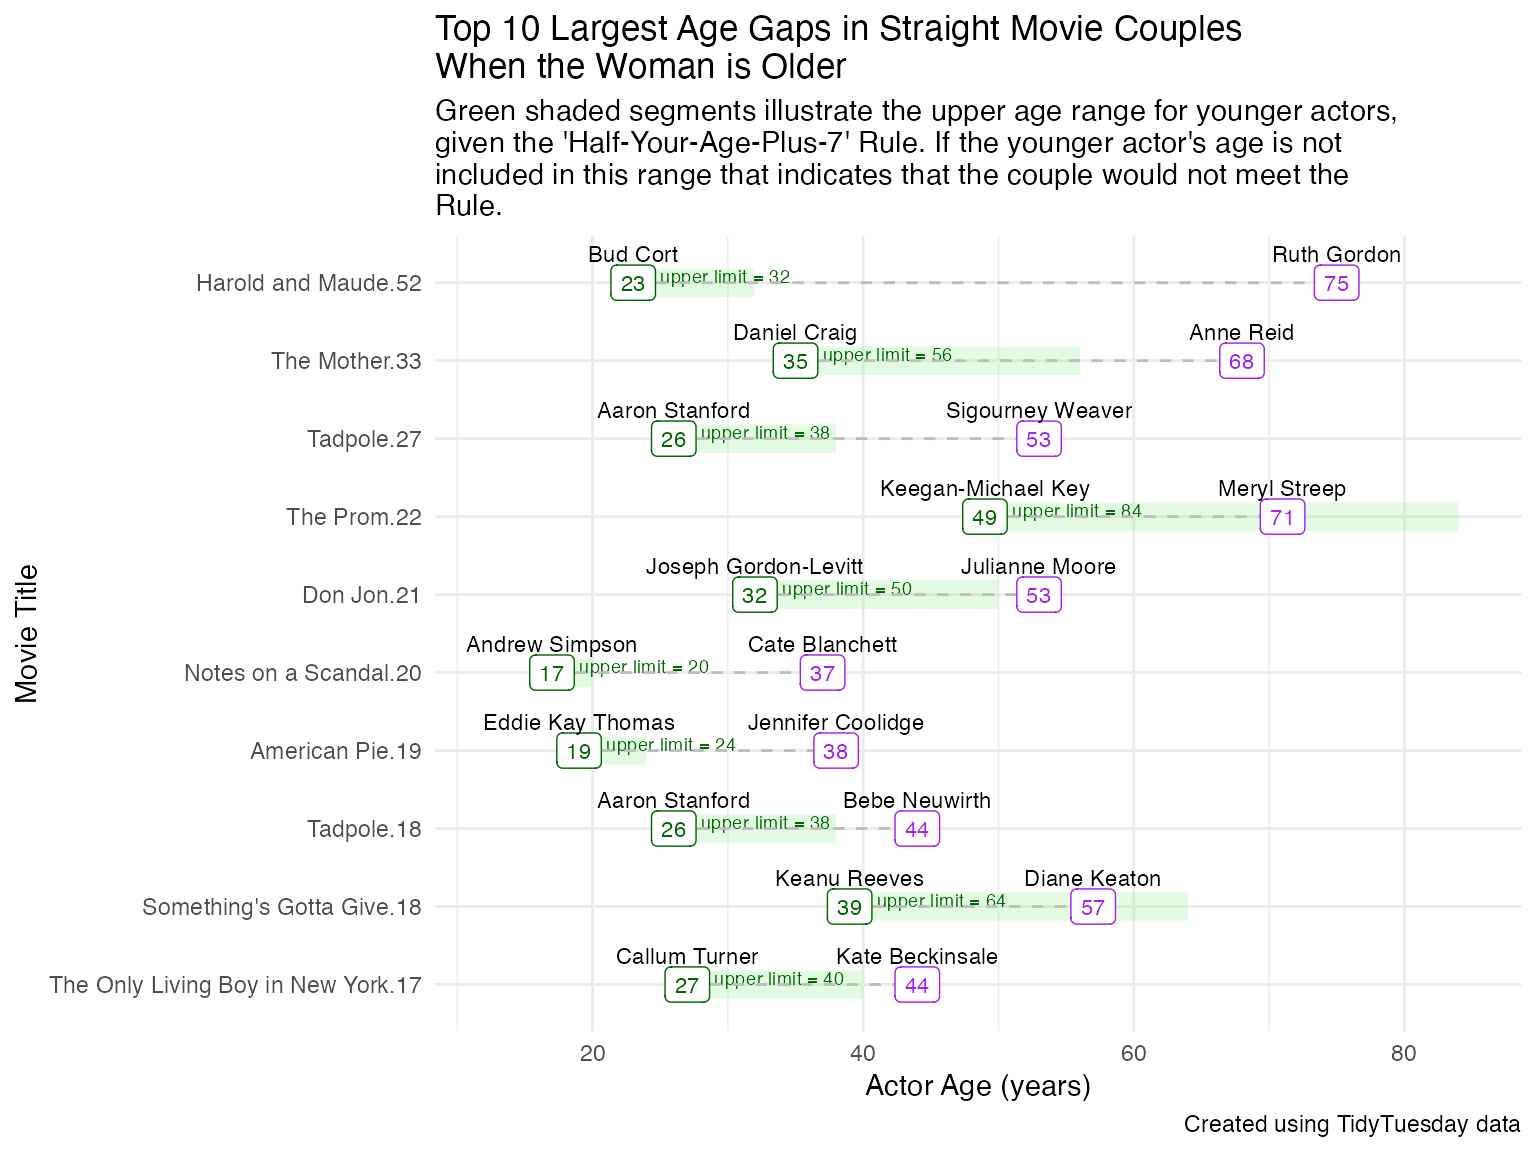
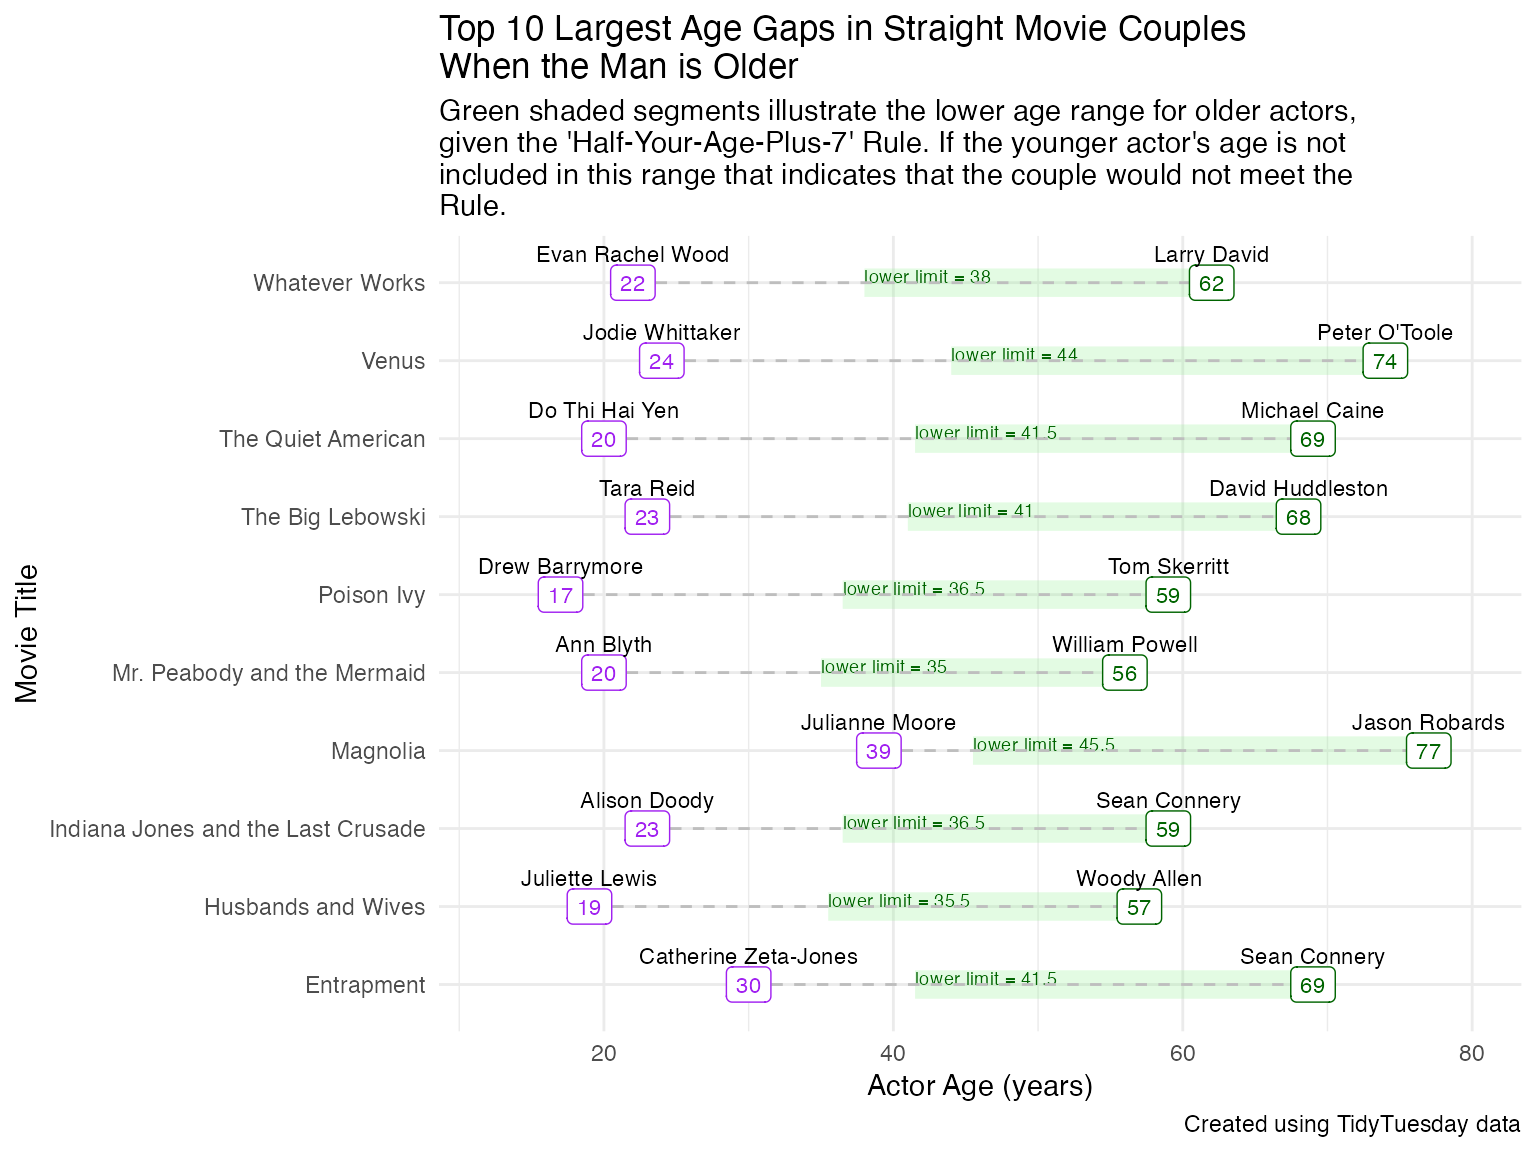
Improves example analysis

diff --git a/docs/articles/Example_Analysis.html b/docs/articles/Example_Analysis.html
@@ -143,6 +143,7 @@
 <span>         actor_1_birthdate <span class="op">=</span> <span class="fu"><a href="https://lubridate.tidyverse.org/reference/ymd.html" class="external-link">ymd</a></span><span class="op">(</span><span class="va">actor_1_birthdate</span><span class="op">)</span>,</span>
 <span>         actor_2_birthdate <span class="op">=</span> <span class="fu"><a href="https://lubridate.tidyverse.org/reference/ymd.html" class="external-link">ymd</a></span><span class="op">(</span><span class="va">actor_2_birthdate</span><span class="op">)</span><span class="op">)</span></span>
 <span></span>
+<span><span class="co">#calculates the older actor in the couple</span></span>
 <span><span class="va">calculate_older_actor</span> <span class="op">&lt;-</span> <span class="kw">function</span><span class="op">(</span><span class="va">man_birthdate</span>, <span class="va">woman_birthdate</span><span class="op">)</span> <span class="op">{</span></span>
 <span>  <span class="kw">if</span> <span class="op">(</span><span class="va">man_birthdate</span> <span class="op">&lt;</span> <span class="va">woman_birthdate</span><span class="op">)</span> <span class="op">{</span></span>
 <span>    <span class="kw"><a href="https://rdrr.io/r/base/function.html" class="external-link">return</a></span><span class="op">(</span><span class="st">"man"</span><span class="op">)</span></span>
@@ -180,6 +181,7 @@
 <span><span class="op">}</span></span>
 <span></span>
 <span><span class="va">age_gaps_straight</span> <span class="op">&lt;-</span> <span class="va">age_gaps_v1</span> <span class="op"><a href="https://magrittr.tidyverse.org/reference/pipe.html" class="external-link">%&gt;%</a></span></span>
+<span>  <span class="fu"><a href="https://dplyr.tidyverse.org/reference/filter.html" class="external-link">filter</a></span><span class="op">(</span><span class="va">orientation</span> <span class="op">==</span> <span class="st">"Straight"</span><span class="op">)</span> <span class="op"><a href="https://magrittr.tidyverse.org/reference/pipe.html" class="external-link">%&gt;%</a></span></span>
 <span>  <span class="fu"><a href="https://dplyr.tidyverse.org/reference/mutate.html" class="external-link">mutate</a></span><span class="op">(</span></span>
 <span>    details <span class="op">=</span> <span class="fu"><a href="https://purrr.tidyverse.org/reference/pmap.html" class="external-link">pmap</a></span><span class="op">(</span><span class="fu"><a href="https://rdrr.io/r/base/list.html" class="external-link">list</a></span><span class="op">(</span><span class="va">character_1_gender</span>, <span class="va">character_2_gender</span>, <span class="va">actor_1_age</span>, <span class="va">actor_1_birthdate</span>, <span class="va">actor_1_name</span>, <span class="va">actor_2_age</span>, <span class="va">actor_2_birthdate</span>, <span class="va">actor_2_name</span><span class="op">)</span>, <span class="va">assign_gender_details</span><span class="op">)</span></span>
 <span>  <span class="op">)</span> <span class="op"><a href="https://magrittr.tidyverse.org/reference/pipe.html" class="external-link">%&gt;%</a></span></span>
@@ -214,13 +216,35 @@
 <span>  <span class="op">)</span> <span class="op">+</span></span>
 <span>  <span class="fu"><a href="https://ggplot2.tidyverse.org/reference/ggtheme.html" class="external-link">theme_minimal</a></span><span class="op">(</span><span class="op">)</span></span></code></pre></div>
 <p><img src="Example_Analysis_files/figure-html/unnamed-chunk-5-1.png" width="768"></p>
+<div class="sourceCode" id="cb6"><pre class="downlit sourceCode r">
+<code class="sourceCode R"><span><span class="va">age_gaps_straight</span> <span class="op"><a href="https://magrittr.tidyverse.org/reference/pipe.html" class="external-link">%&gt;%</a></span></span>
+<span>  <span class="fu"><a href="https://dplyr.tidyverse.org/reference/mutate.html" class="external-link">mutate</a></span><span class="op">(</span>match_rule <span class="op">=</span> <span class="fu"><a href="https://dplyr.tidyverse.org/reference/case_when.html" class="external-link">case_when</a></span><span class="op">(</span></span>
+<span>    <span class="fu"><a href="../reference/check_couple.html">check_couple</a></span><span class="op">(</span><span class="va">man_age</span>, <span class="va">woman_age</span><span class="op">)</span> <span class="op">==</span> <span class="cn">FALSE</span> <span class="op">~</span> <span class="st">"No"</span>,</span>
+<span>    <span class="fu"><a href="../reference/check_couple.html">check_couple</a></span><span class="op">(</span><span class="va">man_age</span>, <span class="va">woman_age</span><span class="op">)</span> <span class="op">==</span> <span class="cn">TRUE</span> <span class="op">~</span> <span class="st">"Yes"</span><span class="op">)</span><span class="op">)</span> <span class="op"><a href="https://magrittr.tidyverse.org/reference/pipe.html" class="external-link">%&gt;%</a></span></span>
+<span><span class="fu"><a href="https://ggplot2.tidyverse.org/reference/ggplot.html" class="external-link">ggplot</a></span><span class="op">(</span><span class="fu"><a href="https://ggplot2.tidyverse.org/reference/aes.html" class="external-link">aes</a></span><span class="op">(</span>x <span class="op">=</span> <span class="va">release_year</span>, y <span class="op">=</span> <span class="va">age_difference</span>, color <span class="op">=</span> <span class="va">match_rule</span><span class="op">)</span><span class="op">)</span> <span class="op">+</span></span>
+<span>  <span class="co"># adds jitter for discrete data</span></span>
+<span>  <span class="fu"><a href="https://ggplot2.tidyverse.org/reference/geom_jitter.html" class="external-link">geom_jitter</a></span><span class="op">(</span>alpha <span class="op">=</span> <span class="fl">0.5</span><span class="op">)</span> <span class="op">+</span></span>
+<span>  <span class="co"># designates color of points by gender of older actor in couple</span></span>
+<span>  <span class="fu"><a href="https://ggplot2.tidyverse.org/reference/scale_manual.html" class="external-link">scale_color_manual</a></span><span class="op">(</span>values <span class="op">=</span> <span class="fu"><a href="https://rdrr.io/r/base/c.html" class="external-link">c</a></span><span class="op">(</span><span class="st">"Yes"</span> <span class="op">=</span> <span class="st">"blue"</span>, <span class="st">"No"</span> <span class="op">=</span> <span class="st">"red"</span><span class="op">)</span><span class="op">)</span> <span class="op">+</span></span>
+<span>  <span class="co"># creates labels for plot</span></span>
+<span>  <span class="fu"><a href="https://ggplot2.tidyverse.org/reference/labs.html" class="external-link">labs</a></span><span class="op">(</span></span>
+<span>    title <span class="op">=</span> <span class="st">"Movie Couple Age Differences Over Time"</span>,</span>
+<span>    x <span class="op">=</span> <span class="st">"Year"</span>,</span>
+<span>    y <span class="op">=</span> <span class="st">"Age Difference"</span>,</span>
+<span>    color <span class="op">=</span> <span class="st">"Does the Couple follow the \n'Half-Your-Age-Plus-Seven' Rule?"</span></span>
+<span>  <span class="op">)</span> <span class="op">+</span></span>
+<span>  <span class="fu"><a href="https://ggplot2.tidyverse.org/reference/ggtheme.html" class="external-link">theme_minimal</a></span><span class="op">(</span><span class="op">)</span> <span class="op">+</span></span>
+<span>  <span class="fu"><a href="https://ggplot2.tidyverse.org/reference/facet_wrap.html" class="external-link">facet_wrap</a></span><span class="op">(</span><span class="op">~</span><span class="va">older_actor</span><span class="op">)</span> <span class="op">+</span> </span>
+<span>  <span class="co"># moves legend to top of plot</span></span>
+<span>  <span class="fu"><a href="https://ggplot2.tidyverse.org/reference/theme.html" class="external-link">theme</a></span><span class="op">(</span>legend.position <span class="op">=</span> <span class="st">"top"</span><span class="op">)</span></span></code></pre></div>
+<p><img src="Example_Analysis_files/figure-html/unnamed-chunk-6-1.png" width="768"></p>
 </div>
 <div class="section level2">
 <h2 id="age-comparison-of-men-and-women-in-movie-couples">Age Comparison of Men and Women in Movie Couples<a class="anchor" aria-label="anchor" href="#age-comparison-of-men-and-women-in-movie-couples"></a>
 </h2>
 <p><strong>Please note that this plot includes a demonstration of the
 check_couple function.</strong></p>
-<div class="sourceCode" id="cb6"><pre class="downlit sourceCode r">
+<div class="sourceCode" id="cb7"><pre class="downlit sourceCode r">
 <code class="sourceCode R"><span><span class="va">age_gaps_straight</span> <span class="op"><a href="https://magrittr.tidyverse.org/reference/pipe.html" class="external-link">%&gt;%</a></span></span>
 <span>  <span class="co"># demonstrates check_couple function from halfplus7 package</span></span>
 <span>  <span class="fu"><a href="https://dplyr.tidyverse.org/reference/mutate.html" class="external-link">mutate</a></span><span class="op">(</span>match_rule <span class="op">=</span> <span class="fu"><a href="https://dplyr.tidyverse.org/reference/case_when.html" class="external-link">case_when</a></span><span class="op">(</span></span>
@@ -244,13 +268,13 @@ check_couple function.</strong></p>
 <span>  <span class="op">)</span> <span class="op">+</span> </span>
 <span>  <span class="co"># moves legend to top of plot</span></span>
 <span>  <span class="fu"><a href="https://ggplot2.tidyverse.org/reference/theme.html" class="external-link">theme</a></span><span class="op">(</span>legend.position <span class="op">=</span> <span class="st">"top"</span><span class="op">)</span></span></code></pre></div>
-<p><img src="Example_Analysis_files/figure-html/unnamed-chunk-6-1.png" width="768"></p>
+<p><img src="Example_Analysis_files/figure-html/unnamed-chunk-7-1.png" width="768"></p>
 </div>
 <div class="section level2">
 <h2 id="creates-datasets-for-the-straight-couples-with-the-largest-age-gaps">Creates Datasets for the Straight Couples with the largest age
 gaps<a class="anchor" aria-label="anchor" href="#creates-datasets-for-the-straight-couples-with-the-largest-age-gaps"></a>
 </h2>
-<div class="sourceCode" id="cb7"><pre class="downlit sourceCode r">
+<div class="sourceCode" id="cb8"><pre class="downlit sourceCode r">
 <code class="sourceCode R"><span><span class="co"># creates data set with couples with largest age gaps, 10 with older man and 10 with older woman</span></span>
 <span><span class="va">top_age_gaps</span> <span class="op">&lt;-</span> <span class="va">age_gaps_straight</span> <span class="op"><a href="https://magrittr.tidyverse.org/reference/pipe.html" class="external-link">%&gt;%</a></span></span>
 <span>  <span class="fu"><a href="https://dplyr.tidyverse.org/reference/arrange.html" class="external-link">arrange</a></span><span class="op">(</span><span class="fu"><a href="https://dplyr.tidyverse.org/reference/desc.html" class="external-link">desc</a></span><span class="op">(</span><span class="va">age_difference</span><span class="op">)</span><span class="op">)</span> <span class="op"><a href="https://magrittr.tidyverse.org/reference/pipe.html" class="external-link">%&gt;%</a></span></span>
@@ -270,7 +294,7 @@ gaps<a class="anchor" aria-label="anchor" href="#creates-datasets-for-the-straig
 <div class="section level2">
 <h2 id="top-10-largest-age-gaps-when-man-is-older">Top 10 Largest Age Gaps when Man is Older<a class="anchor" aria-label="anchor" href="#top-10-largest-age-gaps-when-man-is-older"></a>
 </h2>
-<div class="sourceCode" id="cb8"><pre class="downlit sourceCode r">
+<div class="sourceCode" id="cb9"><pre class="downlit sourceCode r">
 <code class="sourceCode R"><span><span class="va">top_age_gaps_long</span> <span class="op"><a href="https://magrittr.tidyverse.org/reference/pipe.html" class="external-link">%&gt;%</a></span></span>
 <span>  <span class="fu"><a href="https://dplyr.tidyverse.org/reference/filter.html" class="external-link">filter</a></span><span class="op">(</span><span class="va">older_actor</span> <span class="op">==</span> <span class="st">"man"</span><span class="op">)</span> <span class="op"><a href="https://magrittr.tidyverse.org/reference/pipe.html" class="external-link">%&gt;%</a></span></span>
 <span>  <span class="fu"><a href="https://ggplot2.tidyverse.org/reference/ggplot.html" class="external-link">ggplot</a></span><span class="op">(</span><span class="fu"><a href="https://ggplot2.tidyverse.org/reference/aes.html" class="external-link">aes</a></span><span class="op">(</span>x <span class="op">=</span> <span class="va">age</span>, y <span class="op">=</span> <span class="fu"><a href="https://rdrr.io/r/stats/reorder.factor.html" class="external-link">reorder</a></span><span class="op">(</span><span class="va">movie_name</span>, <span class="va">age_difference</span><span class="op">)</span><span class="op">)</span><span class="op">)</span> <span class="op">+</span></span>
@@ -303,12 +327,12 @@ gaps<a class="anchor" aria-label="anchor" href="#creates-datasets-for-the-straig
 <span><span class="co">#&gt; <span style="color: #555555;">This warning is displayed once every 8 hours.</span></span></span>
 <span><span class="co">#&gt; <span style="color: #555555;">Call `lifecycle::last_lifecycle_warnings()` to see where this warning was</span></span></span>
 <span><span class="co">#&gt; <span style="color: #555555;">generated.</span></span></span></code></pre></div>
-<p><img src="Example_Analysis_files/figure-html/unnamed-chunk-8-1.png" width="768"></p>
+<p><img src="Example_Analysis_files/figure-html/unnamed-chunk-9-1.png" width="768"></p>
 </div>
 <div class="section level2">
 <h2 id="top-10-largest-age-gaps-when-woman-is-older">Top 10 Largest Age Gaps when Woman is Older<a class="anchor" aria-label="anchor" href="#top-10-largest-age-gaps-when-woman-is-older"></a>
 </h2>
-<div class="sourceCode" id="cb9"><pre class="downlit sourceCode r">
+<div class="sourceCode" id="cb10"><pre class="downlit sourceCode r">
 <code class="sourceCode R"><span><span class="va">top_age_gaps_long</span> <span class="op"><a href="https://magrittr.tidyverse.org/reference/pipe.html" class="external-link">%&gt;%</a></span></span>
 <span>  <span class="fu"><a href="https://dplyr.tidyverse.org/reference/filter.html" class="external-link">filter</a></span><span class="op">(</span><span class="va">older_actor</span> <span class="op">==</span> <span class="st">"woman"</span><span class="op">)</span> <span class="op"><a href="https://magrittr.tidyverse.org/reference/pipe.html" class="external-link">%&gt;%</a></span></span>
 <span>  <span class="fu"><a href="https://ggplot2.tidyverse.org/reference/ggplot.html" class="external-link">ggplot</a></span><span class="op">(</span><span class="fu"><a href="https://ggplot2.tidyverse.org/reference/aes.html" class="external-link">aes</a></span><span class="op">(</span>x <span class="op">=</span> <span class="va">age</span>, y <span class="op">=</span> <span class="fu"><a href="https://rdrr.io/r/stats/reorder.factor.html" class="external-link">reorder</a></span><span class="op">(</span><span class="fu"><a href="https://rdrr.io/r/base/interaction.html" class="external-link">interaction</a></span><span class="op">(</span><span class="va">movie_name</span>, <span class="va">age_difference</span><span class="op">)</span>, <span class="va">age_difference</span><span class="op">)</span><span class="op">)</span><span class="op">)</span> <span class="op">+</span></span>
@@ -337,7 +361,7 @@ gaps<a class="anchor" aria-label="anchor" href="#creates-datasets-for-the-straig
 <span>  <span class="fu"><a href="https://ggplot2.tidyverse.org/reference/theme.html" class="external-link">theme</a></span><span class="op">(</span>legend.position <span class="op">=</span> <span class="st">"top"</span><span class="op">)</span> <span class="op">+</span></span>
 <span>  <span class="fu"><a href="https://ggplot2.tidyverse.org/reference/guides.html" class="external-link">guides</a></span><span class="op">(</span>color <span class="op">=</span> <span class="fu"><a href="https://ggplot2.tidyverse.org/reference/guide_legend.html" class="external-link">guide_legend</a></span><span class="op">(</span>title <span class="op">=</span> <span class="st">"Gender:"</span><span class="op">)</span><span class="op">)</span> <span class="op">+</span></span>
 <span>  <span class="fu"><a href="https://ggplot2.tidyverse.org/reference/lims.html" class="external-link">xlim</a></span><span class="op">(</span><span class="fu"><a href="https://rdrr.io/r/base/c.html" class="external-link">c</a></span><span class="op">(</span><span class="fl">12</span>, <span class="fl">85</span><span class="op">)</span><span class="op">)</span></span></code></pre></div>
-<p><img src="Example_Analysis_files/figure-html/unnamed-chunk-9-1.png" width="768"></p>
+<p><img src="Example_Analysis_files/figure-html/unnamed-chunk-10-1.png" width="768"></p>
 <div class="section level3">
 <h3 id="functions-used">Functions Used<a class="anchor" aria-label="anchor" href="#functions-used"></a>
 </h3>
@@ -350,7 +374,7 @@ gaps<a class="anchor" aria-label="anchor" href="#creates-datasets-for-the-straig
 <p><code>ggplot2</code> : <code>geom_jitter</code>,
 <code>geom_abline</code>, <code>geom_point</code>,
 <code>geom_segment</code>, <code>geom_text</code>,
-<code>geom_label</code></p>
+<code>geom_label</code>, <code>facet_wrap</code></p>
 <p><code>purrr</code>: <code>map</code>, <code>map_chr</code>,
 <code>pmap</code>, <code>pmap_chr</code></p>
 <p><code>halfplus7</code> : <code>check_couple</code>,

diff --git a/docs/index.html b/docs/index.html
@@ -80,6 +80,16 @@
 <p><code>check_couple</code> : provides a verdict about a couple, given their two ages</p>
 <p><code>ages_firstok</code> : provides the ages when a couple would first meet the rule, given their birth dates</p>
 <p><strong>Please note:</strong> This package is meant to be silly and <em>NOT</em> to provide any absolute judgement about a couple. Relationships are complicated and a super simple mathematical formula about one aspect of the individuals involved shouldn’t hold too much weight. Cheers to love and connection at every age! ❤</p>
+<p>Example:</p>
+<blockquote>
+<p>lower_limit(40) [1] 27</p>
+</blockquote>
+<blockquote>
+<p>check_couple(30, 45) [1] TRUE</p>
+</blockquote>
+<blockquote>
+<p>ages_firstok(“1800-12-11”, “1900-10-25”) Age of Older Person Age of Younger Person 213.7372 113.8686</p>
+</blockquote>
 </div>
   </main><aside class="col-md-3"><div class="links">
 <h2 data-toc-skip>Links</h2>

diff --git a/README.md b/README.md
@@ -16,3 +16,15 @@ The "Half-Your-Age-Plus-Seven" Rule is sometimes used to decide whether or not t
 `ages_firstok` : provides the ages when a couple would first meet the rule, given their birth dates
 
 **Please note:** This package is meant to be silly and *NOT* to provide any absolute judgement about a couple. Relationships are complicated and a super simple mathematical formula about one aspect of the individuals involved shouldn't hold too much weight. Cheers to love and connection at every age! ❤ 
+
+Example:
+
+> lower_limit(40)
+[1] 27
+
+> check_couple(30, 45)
+[1] TRUE
+
+> ages_firstok("1800-12-11", "1900-10-25")
+  Age of Older Person Age of Younger Person 
+             213.7372              113.8686
